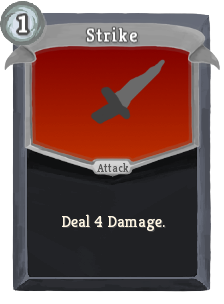
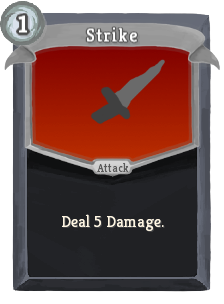
v0.2.3

Changed region(s): [[0.4062, 0.7105, 0.75, 0.7697]]

diff --git a/index.html b/index.html
@@ -173,7 +173,7 @@
         <td>Common</td>
         <td>Attack</td>
         <td>2</td>
-        <td>Deal 4 Damage and 3(4) times. Crit: !C! % Lose 30 Precision.</td>
+        <td>Deal 4 Damage 3(4) times. Crit: !C! % Lose 30 Precision.</td>
       </tr>
       
       <tr>
@@ -723,7 +723,7 @@
         <td>Rare</td>
         <td>Attack</td>
         <td>4</td>
-        <td>Deal 30(36) damage. Crit: !C! % Apply 3(7) Burning to ALL enemies.</td>
+        <td>Deal 30(36) damage. Crit: !C! % Apply 3(4) Burning to ALL enemies.</td>
       </tr>
       
       <tr>
@@ -833,7 +833,7 @@
         <td>Basic</td>
         <td>Attack</td>
         <td>1</td>
-        <td>Deal 4(6) Damage.</td>
+        <td>Deal 5(7) Damage.</td>
       </tr>
       
       <tr>
@@ -913,7 +913,7 @@
         <td>Rare</td>
         <td>Attack</td>
         <td>4</td>
-        <td>Deal 3(5) Damage to ALL enemies. Play ALL Grenades from your draw (and discard) pile(s).</td>
+        <td>Deal 4(6) Damage to ALL enemies. Play ALL Grenades from your draw (and discard) pile(s). WARNING: Do not mess with the Void!</td>
       </tr>
       
     </table>
